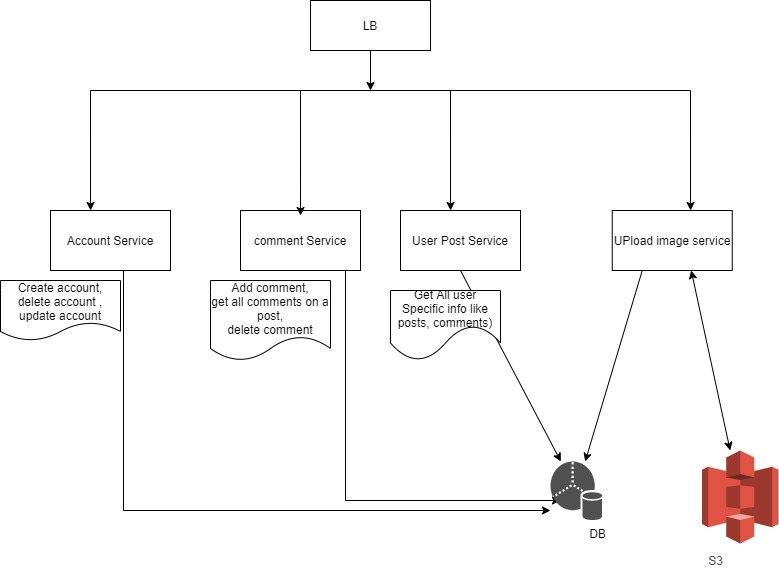
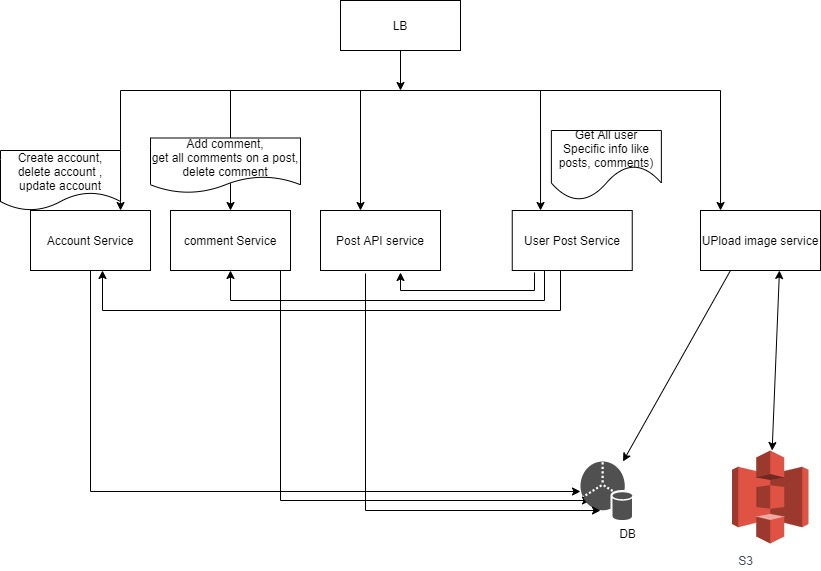
updated the readme with current progress and flow (#3)

diff --git a/README.md b/README.md
@@ -1,4 +1,36 @@
-#Account API.
+# IMAGEGRAM SYSTEM : WORK IN PROGRSS 
+Basic block diagram for system </br>
 <p align="center">
-  <img src="Diagram.jpg" width=75% title="base diagram">
+  <img src="Diagram.jpg" width=75% title="basic block diagram of system">
   </p>
+----
+
+## High Level Blocks' Explaination
+
+ 1. **Account service**: The service deals with the account CRUD operations.
+ 2. **Image Upload service**: The service deals image upload. The service is made a different mciroservice, considering the read to write ratio and since, image upload will be heavy operation, the process should not impact the latency of read operation whose volume will be higher than upload operation.
+ 3. **User Post service**: The service deals with all get operations or the operations, which needs nested response all user post related operations like get all posts, get all users, get all comments related to post.
+ 4. **Comment service**: The service deals with the comment CRUD operations
+ 5. **Post API service**: The service deals with the image post specific CRUD operations.
+ 6. **Token service**: The service deals with the token creation/validation which is responsible for header validation.
+----
+## Assumptions:
+ 1. The SSO login service already exists and upon login it issues token and stores in the session.
+ 2. For new sign up, once credentials are created and stored, it will share the username/userid to be stored with the account. (Account API will only store the account details in the DB along with assoicated userid).
+----
+ ## Sequence diagram:
+ Below diagram is to give the high level idea of sequence flow for the system</br>
+ <p align="center">
+  <img src="sequenceDiagram.jpg" width=75% title="current impl sample sequence diagram of system">
+  </p>
+
+----
+ ## Current covered scenarios:
+  1. A user can create account, the account creation will be validated with the header.
+  2. A user can get the post and all comments related to it in paginated format.
+
+ ---- 
+
+  Please NOTE :the system is using mock implementations of adapters and stores right now.<br>
+   The readme will be updated once the developement is completed.
+----

diff --git a/UserPostService/ReadMe.md b/UserPostService/ReadMe.md
@@ -50,4 +50,5 @@ NOTE: currently mock token authenticator is added along with all mock implementa
 **_Tech debts or TODOs:_**
 1. To add unit testing for all implementations.
 2. Actual adapter implementations to connect with the microservices (posts).
+3. Mutation or support to perform other operations like delete for user.
 ----

diff --git a/AccountService/readme.md b/AccountService/readme.md
@@ -27,6 +27,7 @@ The service currently consumes mock implementations for stores.
 ----
 **_Tech debts or TODOs:_**
 1. To add unit testing for all implementations.
-2. Actual store implementation
+2. Actual store implementation.
+3. delete and updpate account implementation
 ----
 
